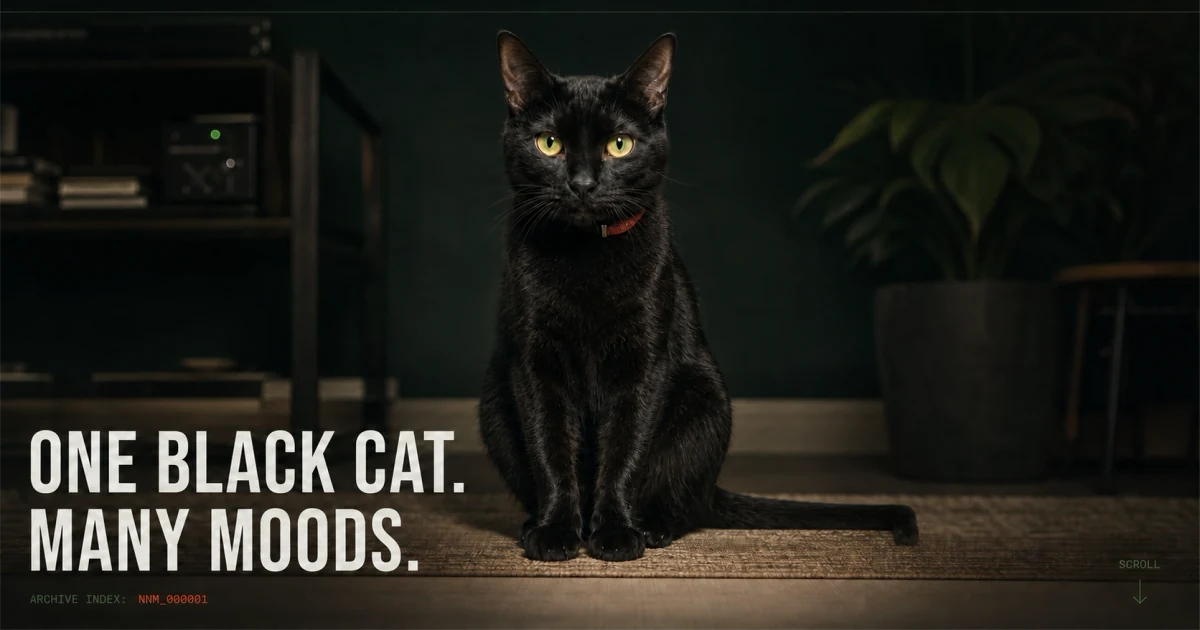
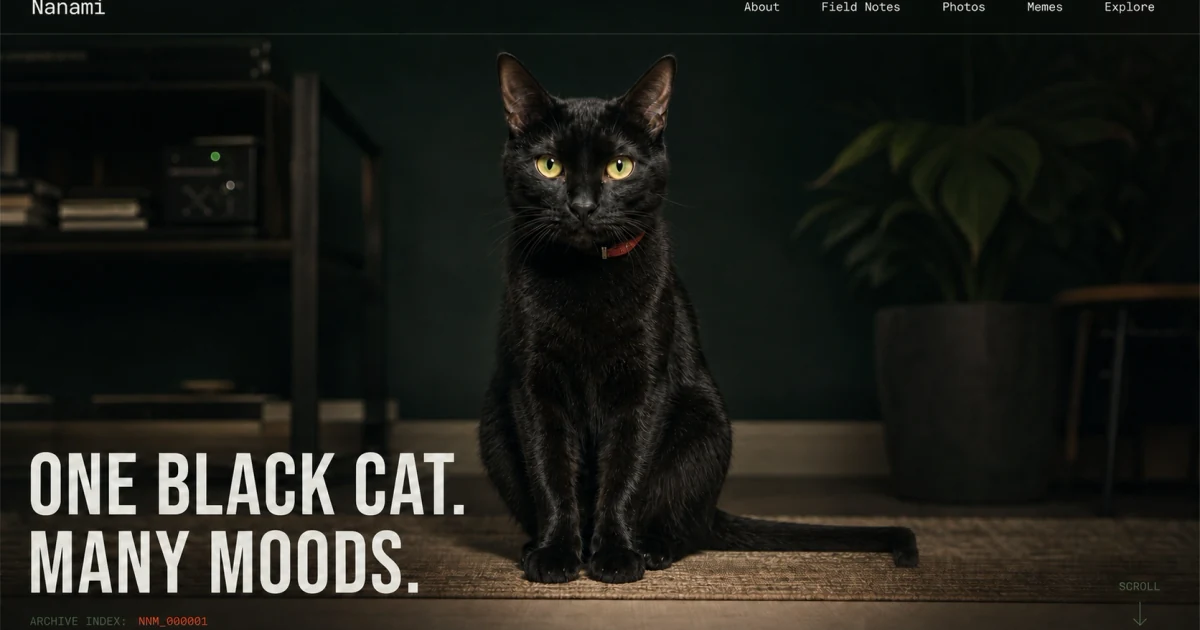
fix: align Nanami sharing metadata with spec

diff --git a/src/components/SeoMetadata.test.tsx b/src/components/SeoMetadata.test.tsx
@@ -38,7 +38,13 @@ describe('SeoMetadata', () => {
 
     expect(document.title).toBe('Nanami Cat — A Living Archive')
     expect(meta('meta[name="description"]')?.content).toBe(
-      'Nanami is a living male black cat born in Utsunomiya, Tochigi, Japan. Explore his living digital archive.',
+      'The living digital archive of Nanami, a black cat born in Utsunomiya, Tochigi.',
+    )
+    expect(meta('meta[property="og:description"]')?.content).toBe(
+      'The living digital archive of Nanami, a black cat born in Utsunomiya, Tochigi.',
+    )
+    expect(meta('meta[name="twitter:description"]')?.content).toBe(
+      'The living digital archive of Nanami, a black cat born in Utsunomiya, Tochigi.',
     )
     expect(meta('meta[property="og:title"]')?.content).toBe(document.title)
     expect(meta('meta[property="og:locale"]')?.content).toBe('en_US')
@@ -62,7 +68,15 @@ describe('SeoMetadata', () => {
     fireEvent.click(screen.getByRole('button', { name: '中文' }))
 
     expect(document.title).toBe('Nanami Cat — 生活数字档案')
-    expect(meta('meta[name="description"]')?.content).toContain('生活数字档案')
+    expect(meta('meta[name="description"]')?.content).toBe(
+      '黑猫 Nanami 的生活数字档案。他出生于日本栃木县宇都宫市。',
+    )
+    expect(meta('meta[property="og:description"]')?.content).toBe(
+      '黑猫 Nanami 的生活数字档案。他出生于日本栃木县宇都宫市。',
+    )
+    expect(meta('meta[name="twitter:description"]')?.content).toBe(
+      '黑猫 Nanami 的生活数字档案。他出生于日本栃木县宇都宫市。',
+    )
     expect(meta('meta[property="og:title"]')?.content).toBe(document.title)
     expect(meta('meta[property="og:locale"]')?.content).toBe('zh_CN')
     expect(meta('meta[name="twitter:title"]')?.content).toBe(document.title)
@@ -87,6 +101,7 @@ describe('SeoMetadata', () => {
     expect(website.about).toEqual({ '@id': 'https://nanamicat.com/#nanami' })
     expect(nanami).toMatchObject({
       '@type': 'Thing',
+      additionalType: 'Cat',
       name: nanamiProfile.name,
       gender: nanamiProfile.sex,
       birthDate: nanamiProfile.birthDate,

diff --git a/src/i18n/metadata.ts b/src/i18n/metadata.ts
@@ -10,21 +10,15 @@ export interface LocalizedMetadata {
   openGraphLocale: 'en_US' | 'zh_CN'
 }
 
-const birthplace = [
-  nanamiProfile.birthplace.city,
-  nanamiProfile.birthplace.region,
-  nanamiProfile.birthplace.country,
-].join(', ')
-
 export const metadataByLocale: Readonly<Record<Locale, LocalizedMetadata>> = {
   en: {
     title: 'Nanami Cat — A Living Archive',
-    description: `${nanamiProfile.name} is a living ${nanamiProfile.sex} ${nanamiProfile.coat} ${nanamiProfile.species} born in ${birthplace}. Explore his living digital archive.`,
+    description: `The living digital archive of ${nanamiProfile.name}, a ${nanamiProfile.coat} ${nanamiProfile.species} born in ${nanamiProfile.birthplace.city}, ${nanamiProfile.birthplace.region}.`,
     openGraphLocale: 'en_US',
   },
   'zh-CN': {
     title: 'Nanami Cat — 生活数字档案',
-    description: 'Nanami 是一只出生于日本栃木县宇都宫市、正在生活中的雄性黑猫。这里是记录他日常与神态的生活数字档案。',
+    description: '黑猫 Nanami 的生活数字档案。他出生于日本栃木县宇都宫市。',
     openGraphLocale: 'zh_CN',
   },
 }

diff --git a/index.html b/index.html
@@ -8,18 +8,18 @@
     <link rel="icon" type="image/png" href="/favicon.png" />
     <meta
       name="description"
-      content="Nanami is a living male black cat born in Utsunomiya, Tochigi, Japan. Explore his living digital archive."
+      content="The living digital archive of Nanami, a black cat born in Utsunomiya, Tochigi."
     />
     <meta property="og:type" content="website" />
     <meta property="og:url" content="https://nanamicat.com/" />
     <meta property="og:locale" content="en_US" />
     <meta property="og:locale:alternate" content="zh_CN" />
     <meta property="og:title" content="Nanami Cat — A Living Archive" />
-    <meta property="og:description" content="Nanami is a living male black cat born in Utsunomiya, Tochigi, Japan. Explore his living digital archive." />
+    <meta property="og:description" content="The living digital archive of Nanami, a black cat born in Utsunomiya, Tochigi." />
     <meta property="og:image" content="https://nanamicat.com/social/nanami-social-card.webp" />
     <meta name="twitter:card" content="summary_large_image" />
     <meta name="twitter:title" content="Nanami Cat — A Living Archive" />
-    <meta name="twitter:description" content="Nanami is a living male black cat born in Utsunomiya, Tochigi, Japan. Explore his living digital archive." />
+    <meta name="twitter:description" content="The living digital archive of Nanami, a black cat born in Utsunomiya, Tochigi." />
     <meta name="twitter:image" content="https://nanamicat.com/social/nanami-social-card.webp" />
     <title>Nanami Cat — A Living Archive</title>
   </head>

diff --git a/tests/seo-static.test.ts b/tests/seo-static.test.ts
@@ -13,7 +13,10 @@ describe('static sharing metadata', () => {
   it('contains one exact English fallback and canonical sharing tag set', () => {
     expect(occurrences('<title>Nanami Cat — A Living Archive</title>')).toBe(1)
     expect(occurrences('name="description"')).toBe(1)
-    expect(html).toContain('content="Nanami is a living male black cat born in Utsunomiya, Tochigi, Japan. Explore his living digital archive."')
+    const description = 'The living digital archive of Nanami, a black cat born in Utsunomiya, Tochigi.'
+    expect(html).toContain(`name="description"\n      content="${description}"`)
+    expect(html).toContain(`<meta property="og:description" content="${description}" />`)
+    expect(html).toContain(`<meta name="twitter:description" content="${description}" />`)
     expect(occurrences('rel="canonical"')).toBe(1)
     expect(html).toContain('<link rel="canonical" href="https://nanamicat.com/" />')
     expect(html).toContain('<link rel="icon" type="image/png" href="/favicon.png" />')

diff --git a/src/components/SeoMetadata.tsx b/src/components/SeoMetadata.tsx
@@ -47,6 +47,7 @@ function structuredData() {
       },
       {
         '@type': 'Thing',
+        additionalType: 'Cat',
         '@id': subjectId,
         name: nanamiProfile.name,
         gender: nanamiProfile.sex,